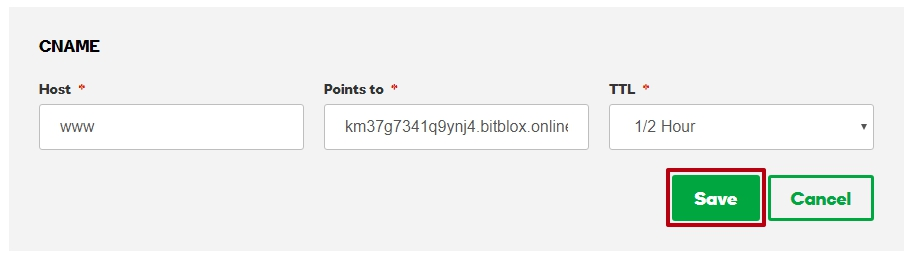
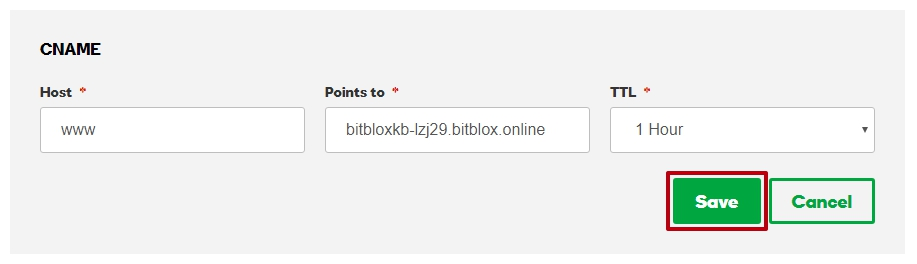
...

diff --git a/publishing/third-party-domains/godaddy2/index.rst b/publishing/third-party-domains/godaddy2/index.rst
@@ -39,7 +39,7 @@ If you purchased a domain from GoDaddy, then you will have to configure your DNS
 
 		|click-connect-domain-bitblox|
 		
-7. Under the **Required** row, copy the name of your page (ex: ``chitoroaganataliav-pzg27.bitblox.online``) 
+7. Under the **Required** row, copy the name of your page (ex: ``bitbloxkb-lzj29.bitblox.online``) 
 
 
     .. class:: screenshot
@@ -66,12 +66,12 @@ If you purchased a domain from GoDaddy, then you will have to configure your DNS
 
 		|godaddy-manage-cname|
 
-12. In the **Points** to text box, enter the name of your page (ex: ``chitoroaganataliav-pzg27.bitblox.online``)
+12. In the **Points** to text box, enter the name of your page (ex: ``bitbloxkb-lzj29.bitblox.online``)
 13. Click Save
 
 	.. class:: screenshot
 
-		|godaddy-save-cname|
+		|bitblox-save-cname-record|
 
 14. In your BitBlox account, click **Refresh** button on the DNS Settings:
 
@@ -112,7 +112,7 @@ For more help with settings in your GoDaddy account, contact their `support team
 .. |godaddy-click-manage| image:: _images/godaddy-click-manage.png
 .. |godaddy-manage-dns| image:: _images/godaddy-manage-dns.png
 .. |godaddy-manage-cname| image:: _images/godaddy-manage-cname.jpg
-.. |bitblox-save-cname| image:: _images/bitblox-save-cname.jpg
+.. |bitblox-save-cname-record| image:: _images/bitblox-save-cname-record.jpg
 
 .. |bitblox-click-refresh-dns-settings| image:: _images/bitblox-click-refresh-dns-settings.jpg
 .. |bitblox-green| image:: _images/bitblox-green.jpg
